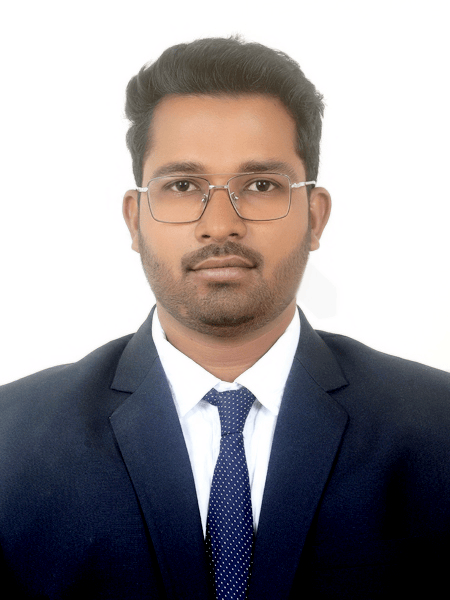
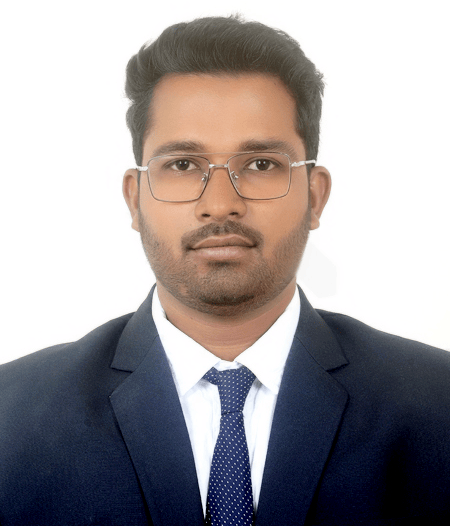
rrr

Changed region(s): [[0.0, 0.2738, 1.0, 1.0], [0.28, 0.0304, 0.7467, 0.2433], [0.8089, 0.6996, 0.84, 0.73]]

diff --git a/index.html b/index.html
@@ -141,7 +141,7 @@
 	      	<div class="overlay"></div>
 	         <div class="container">
 	          <div class="row d-md-flex no-gutters slider-text align-items-end justify-content-end" data-scrollax-parent="true">
-	          	<div class="one-third js-fullheight order-md-last img" style="background-image:url('images/fb_1.jpg');">
+	          	<div class="one-third js-fullheight order-md-last img" style="background-image:url('images/fb_11.jpg');">
 	          	 <div class="overlay"></div>
 	          	</div>
 		          <div class="one-forth d-flex  align-items-center ftco-animate" data-scrollax=" properties: { translateY: '70%' }">
@@ -159,8 +159,8 @@
 
 						// Create an array of typing text
 						const typingTexts = [
-						'Data Analyst  ',
-						'Business Analyst  '
+						'Data Analytics ',
+						'Business Analyst '
 						];
 
 						// Create a function to display the typing animation for a given text
@@ -278,7 +278,8 @@
 								<ul class="about-info mt-4 px-md-0 px-2">
 									<li class="d-flex"><span>Profile:</span> <span>Data Analytics &amp; Business Analyts</span></li>
 									<!-- <li class="d-flex"><span>Domain:</span> <span>Retail, Ecommerce, BFSI &amp; Digital Marketing</span></li> -->
-									<li class="d-flex"><span>Education:</span> <span>Master of Business Administration</span></li>
+									<li class="d-flex"><span>Education:</span> <span>Master of Business Administration
+										Specialization : Marketing & HR</span></li>
 									<li class="d-flex"><span>Language:</span> <span>English, Hindi,Marathi,Urdu</span></li>
 									<li class="d-flex"><span>BI Tools:</span> <span>Microsoft Power BI &amp; Tableau</span></li>
 									<li class="d-flex"><span>Other Skills:</span> <span>Python, SQL, Adv-Excel &amp; Statistics </span></li>
@@ -412,7 +413,7 @@
               </a>
               <div class="text mt-3 float-right d-block">
 
-                <h3 class="heading"><a href="https://github.com/mukhtar1997/End-to-End-Crop-Prediction-System">End-to-End-Crop-Prediction-System</a></h3>
+                <h3 class="heading"><a href="https://github.com/mukhtar1997/End-to-End-Crop-Prediction-System">End-to-End-Crop-Prediction-System(Python,SQL,HTML/CSS)</a></h3>
                 <p>Excited to showcase my latest project, the "End-to-End Crop Prediction System," a server-level application that predicts the most suitable crops based on key environmental factors. Leveraging Python for model development, MySQL for data storage, and HTML/CSS for the user interface, this project seamlessly integrates various technologies for a user-friendly and efficient experience.</p>
               </div>
             </div>
@@ -423,7 +424,7 @@
               </a>
               <div class="text mt-3 float-right d-block">
 
-                <h3 class="heading"><a href="https://github.com/mukhtar1997/Youtube-Likes-Count-Prediction">YouTube Likes Count Prediction</a></h3>
+                <h3 class="heading"><a href="https://github.com/mukhtar1997/Youtube-Likes-Count-Prediction">YouTube Likes Count Prediction(Python)</a></h3>
                 <p>Where I leveraged a Linear Regression Model to predict the number of likes a YouTube video might receive. This project aims to assist content creators and marketers in understanding the potential impact of their videos.</p>
               </div>
             </div>
@@ -434,7 +435,7 @@
               </a>
               <div class="text mt-3 float-right d-block">
 
-                <h3 class="heading"><a href="https://github.com/mukhtar1997/-Film-Rental-Database-Management">Film Rental Database Management</a></h3>
+                <h3 class="heading"><a href="https://github.com/mukhtar1997/-Film-Rental-Database-Management">Film Rental Database Management(MySQL)</a></h3>
                 <p>This endeavor encapsulates my passion for database design and proficiency in SQL queries. From revenue analysis to intricate customer behavior insights, the project showcases my ability to solve complex problems and optimize database performance.</p>
               </div>
             </div>
@@ -519,7 +520,7 @@
 						</div>
 					</div>
 				</div>
-			<!-- </div> -->
+			</div>
 		</div>
 	</section>
 
